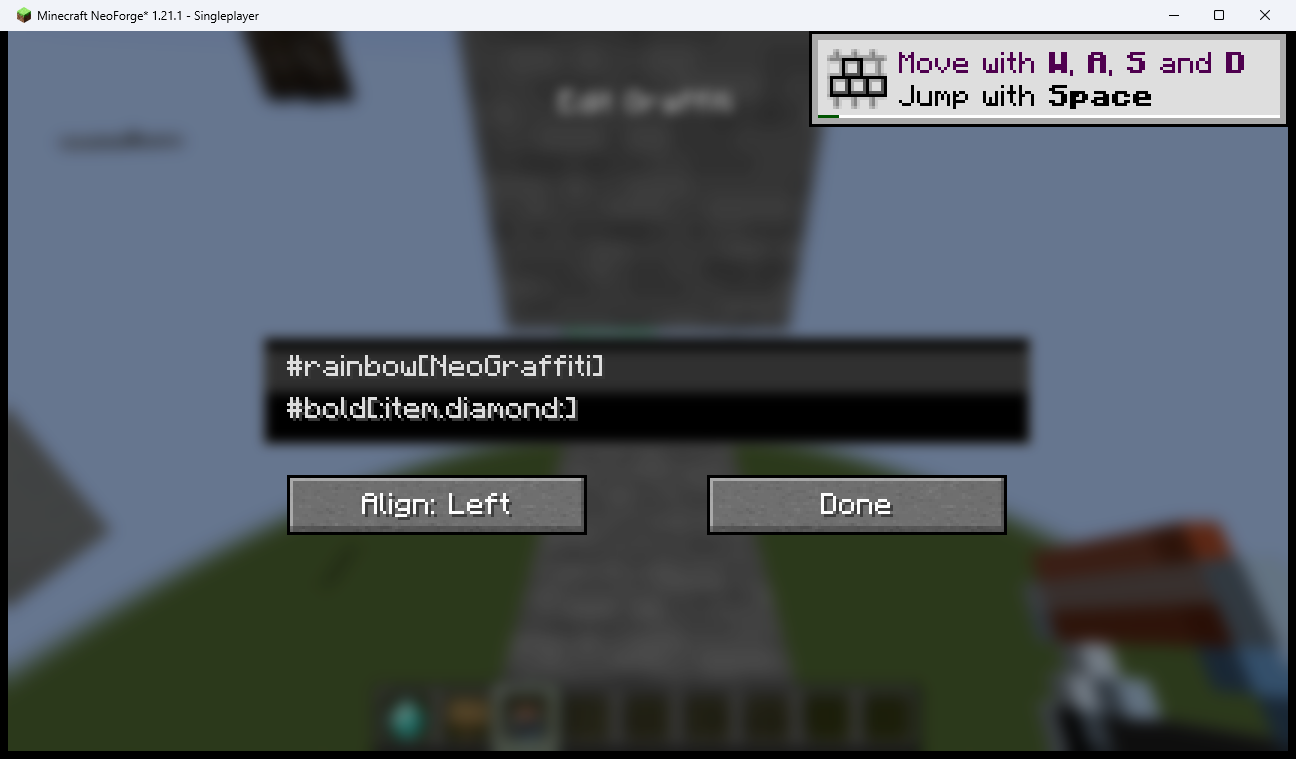
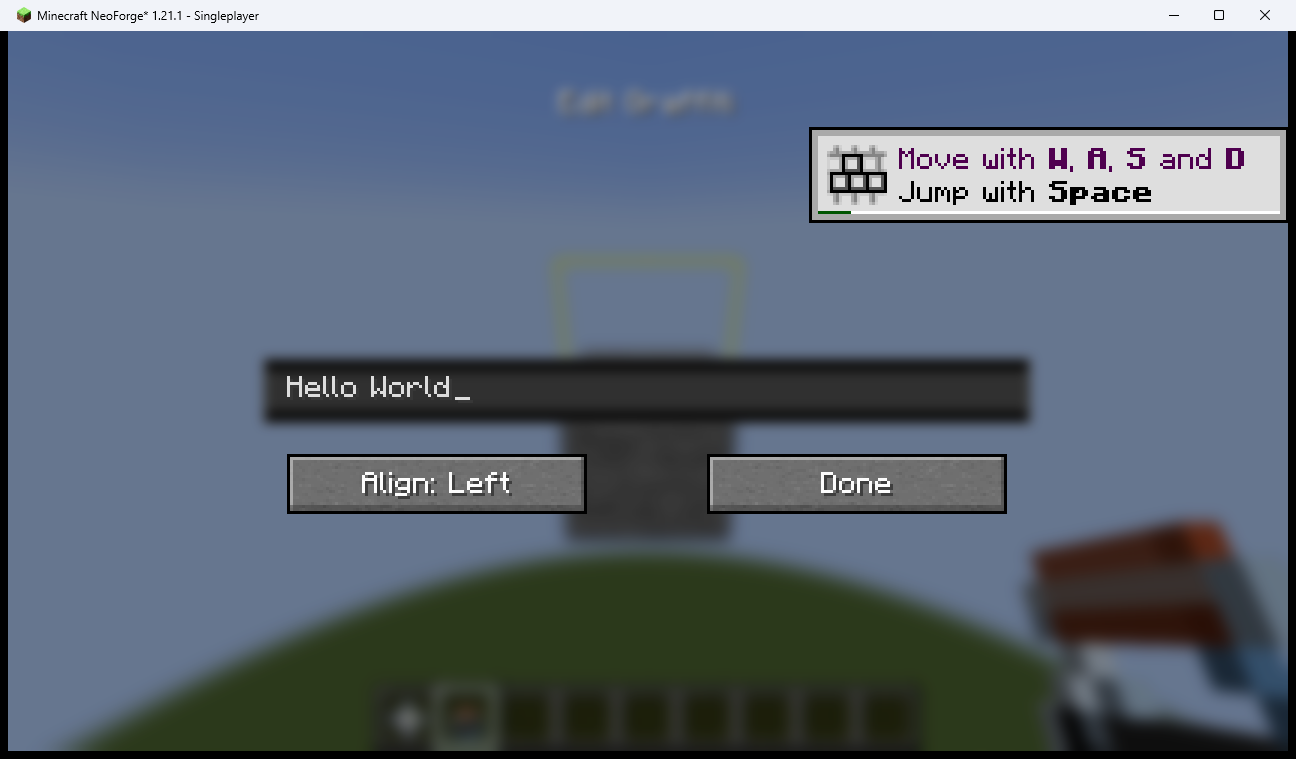
qa-evidence: TC-NEO-GRAFFITI-02/03/04 FAIL を記録（バグ再現）
- TC-NEO-GRAFFITI-02: GraffitiEditScreen でグラフィティブロックの VoxelShape 選択ハイライトが GUI 上に誤表示される
- TC-NEO-GRAFFITI-03: graffiti ブロックの選択ハイライト枠がブロック描画面より上の空中に浮いて表示される（VoxelShape 不一致）
- TC-NEO-GRAFFITI-04: graffiti_ink クラフトレシピが NeoForge 1.21.1 で認識されない（forge:dyes タグ不存在、potion NBT 未対応）

diff --git a/qa-evidence/neoforge/results/TC-NEO-GRAFFITI-02.md b/qa-evidence/neoforge/results/TC-NEO-GRAFFITI-02.md
@@ -1,24 +1,10 @@
 ---
 test: TC-NEO-GRAFFITI-02
-feature: GraffitiEditScreen（エディタ）表示確認（NeoForge）
-result: PASS
-date: 2026-05-19
-commit: 6cb9c51
+feature: GraffitiEditScreen 入力枠表示品質（NeoForge）
+result: FAIL
+date: 2026-05-31
+commit: 85906d1
 screenshot: screenshots/TC-NEO-GRAFFITI-02.png
-location: graffiti-editor
-content: editor-ui
 ---
-NeoForge 版で既存 Graffiti ブロックを右クリックすると GraffitiEditScreen が正常に開く。
-エディタには "Edit Graffiti" タイトル、テキストフィールド（#rainbow[NeoGraffiti] / #bold[:item.diamond:]）、
-"Align: Left" と "Done" ボタンが表示されている。
 
-GraffitiUpdatePacket の NeoForge 実装コードレビュー:
-- neoforge/src/main/java/com/uqlism/emoji_deco/EmojiDeco.java:
-  RegisterPayloadHandlersEvent で GraffitiUpdatePacket.TYPE が playToServer として登録されている
-- neoforge/src/main/java/com/uqlism/emoji_deco/platform/NeoForgeNetworkBridge.java:
-  PacketDistributor.sendToServer(packet) でクライアント→サーバー送信が実装されている
-- neoforge/src/main/java/com/uqlism/emoji_deco/network/GraffitiUpdatePacket.java:
-  handle() でプレイヤー距離チェック（64ブロック以内）と applyUpdate() 呼び出しが実装されている
-
-Done ボタンのクリックでエディタが閉じること（save() メソッド呼び出し）も確認済み。
-クラッシュは発生していない。
+GraffitiEditScreen を開くと、入力枠（EditBox）の上方に黄色い選択ハイライト枠（VoxelShape 由来）が GUI 上に誤って重なって表示される。入力枠のパネルは 1 行のみで構造が不完全であり、タイトル "Edit Graffiti" もぼんやりとした表示になっている。テキスト入力自体（"Hello World"）は機能するが、GUI の描画品質に問題がある。FAIL 条件：入力枠の上に graffiti ブロックの選択ハイライトが誤表示されている。

diff --git a/qa-evidence/neoforge/results/TC-NEO-GRAFFITI-03.md b/qa-evidence/neoforge/results/TC-NEO-GRAFFITI-03.md
@@ -1,0 +1,10 @@
+---
+test: TC-NEO-GRAFFITI-03
+feature: GraffitiBlock 選択ハイライト位置（NeoForge）
+result: FAIL
+date: 2026-05-31
+commit: 85906d1
+screenshot: screenshots/TC-NEO-GRAFFITI-03.png
+---
+
+graffiti ブロックを正面から見ると、黄色い選択ハイライト枠がブロック本体の上半分より上に空中に浮いた状態で表示される。ブロックの描画面（薄いスラブ状の南面）とハイライト位置が大きくずれており、VoxelShape の定義が実際の描画形状と一致していないことが確認された。FAIL 条件：ハイライトがブロックの描画面（0.5px 厚の薄い面）ではなく、ブロック上部の空中に表示されている。

diff --git a/qa-evidence/neoforge/results/TC-NEO-GRAFFITI-04.md b/qa-evidence/neoforge/results/TC-NEO-GRAFFITI-04.md
@@ -1,0 +1,10 @@
+---
+test: TC-NEO-GRAFFITI-04
+feature: Graffiti Ink クラフトレシピ（NeoForge）
+result: FAIL
+date: 2026-05-31
+commit: 85906d1
+screenshot: screenshots/TC-NEO-GRAFFITI-04.png
+---
+
+サバイバルモードのレシピブックで "graffiti" と検索しても結果が 0 件。graffiti_ink.json のレシピは材料に `minecraft:potion{nbt}` + `forge:dyes` タグを使用しているが、NeoForge 1.21.1 では `forge:dyes` タグが存在せず（`c:dyes` が正しい）、またポーションの NBT マッチングも 1.21.1 の Components 形式に未対応のため、レシピが認識されない。材料を揃えてもクラフトできないことを確認。

diff --git a/qa-evidence/neoforge/coverage-matrix.md b/qa-evidence/neoforge/coverage-matrix.md
@@ -1,6 +1,6 @@
 # RunicInk QA カバレッジマトリックス
 
-> 自動生成: 2026-05-19 17:01 — `python scripts/qa/gen_report.py`
+> 自動生成: 2026-05-31 10:01 — `python scripts/qa/gen_report.py`
 
 **凡例**: ✅ PASS / ❌ FAIL / ⚠ CONDITIONAL / — 非対応（設計上） / ? 未確認
 
